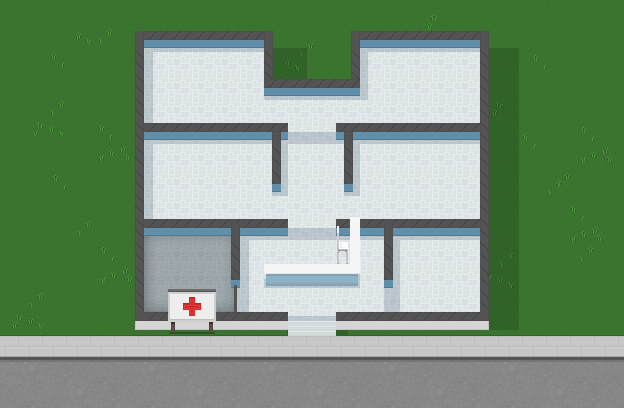
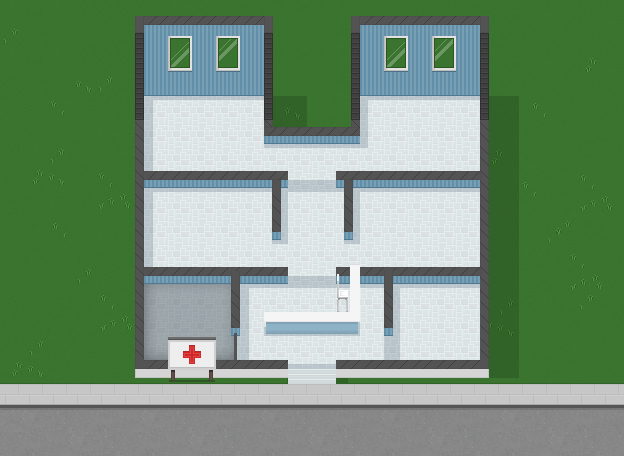
enlarge map and add windows to backall

diff --git a/src/game/Level.js b/src/game/Level.js
@@ -6,7 +6,9 @@ function Level() {
     // use w for wall, b for bed, r for receptionPoint, s for spawnPoint
     // cf. map_raster.png
     let rawMap =
-          '--------------------------\n'
+          '-----w--------------w-----\n'
+        + '-----w--------------w-----\n'
+        + '-----w--------------w-----\n'
         + '-----wwwwwww--wwwwwww-----\n'
         + '-----w-b-b-w--w-b-b-w-----\n'
         + '-----w-b-b-wwww-b-b-w-----\n'
